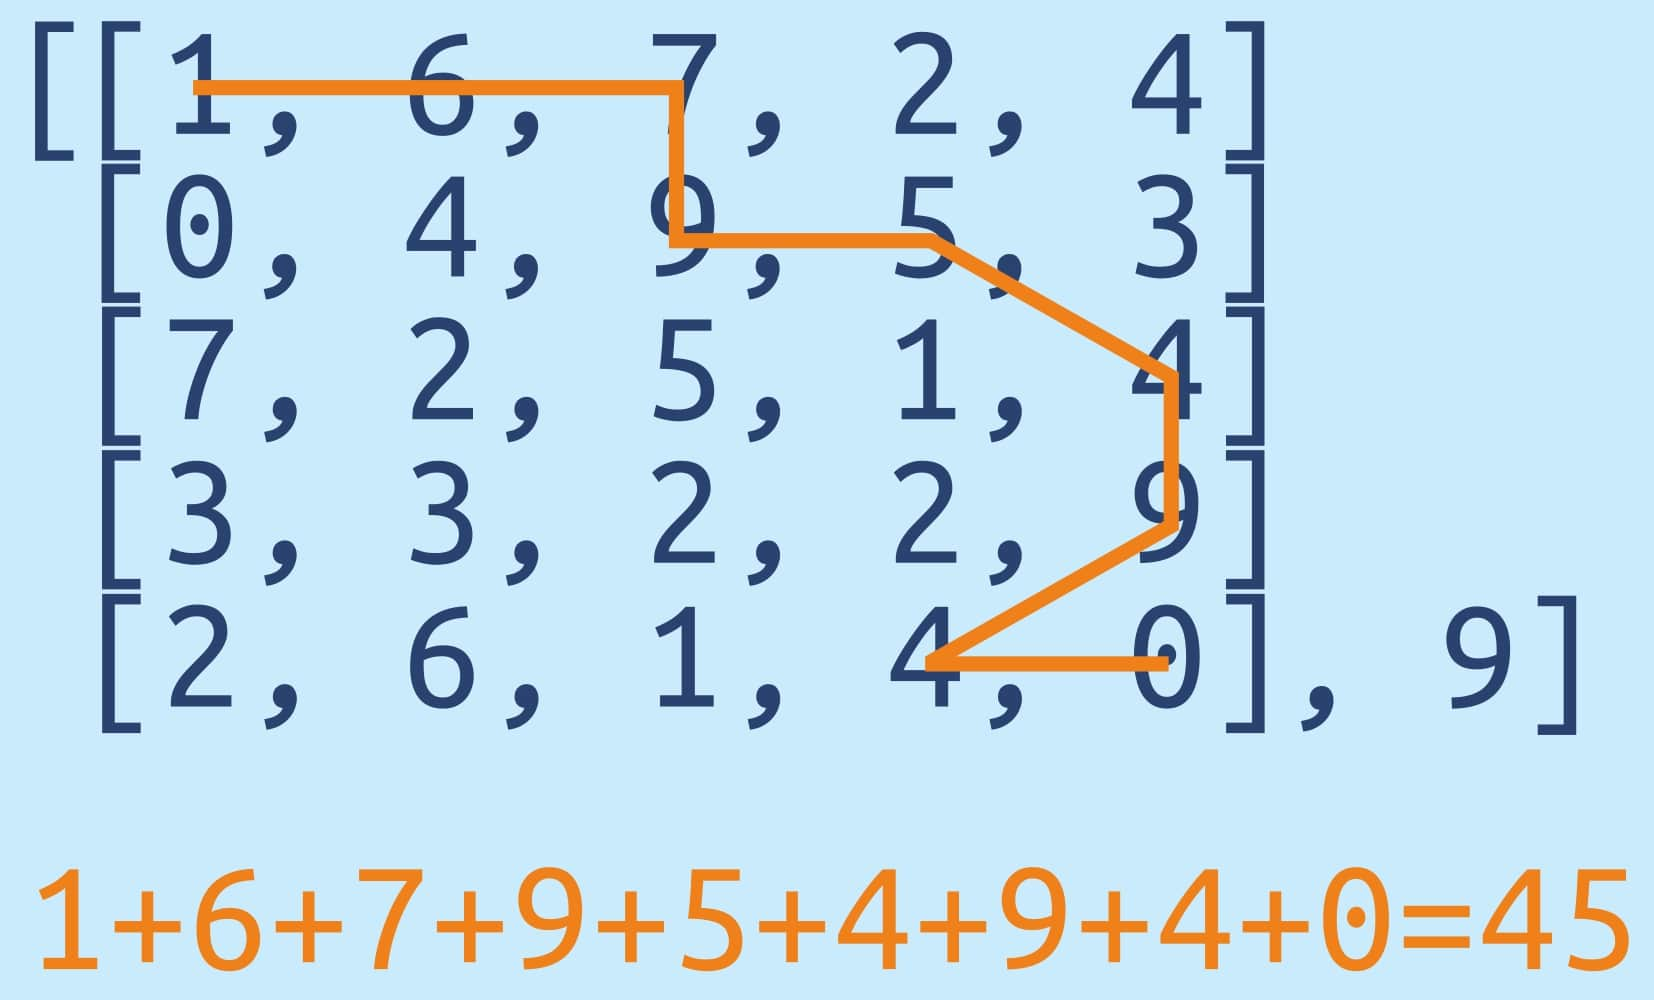
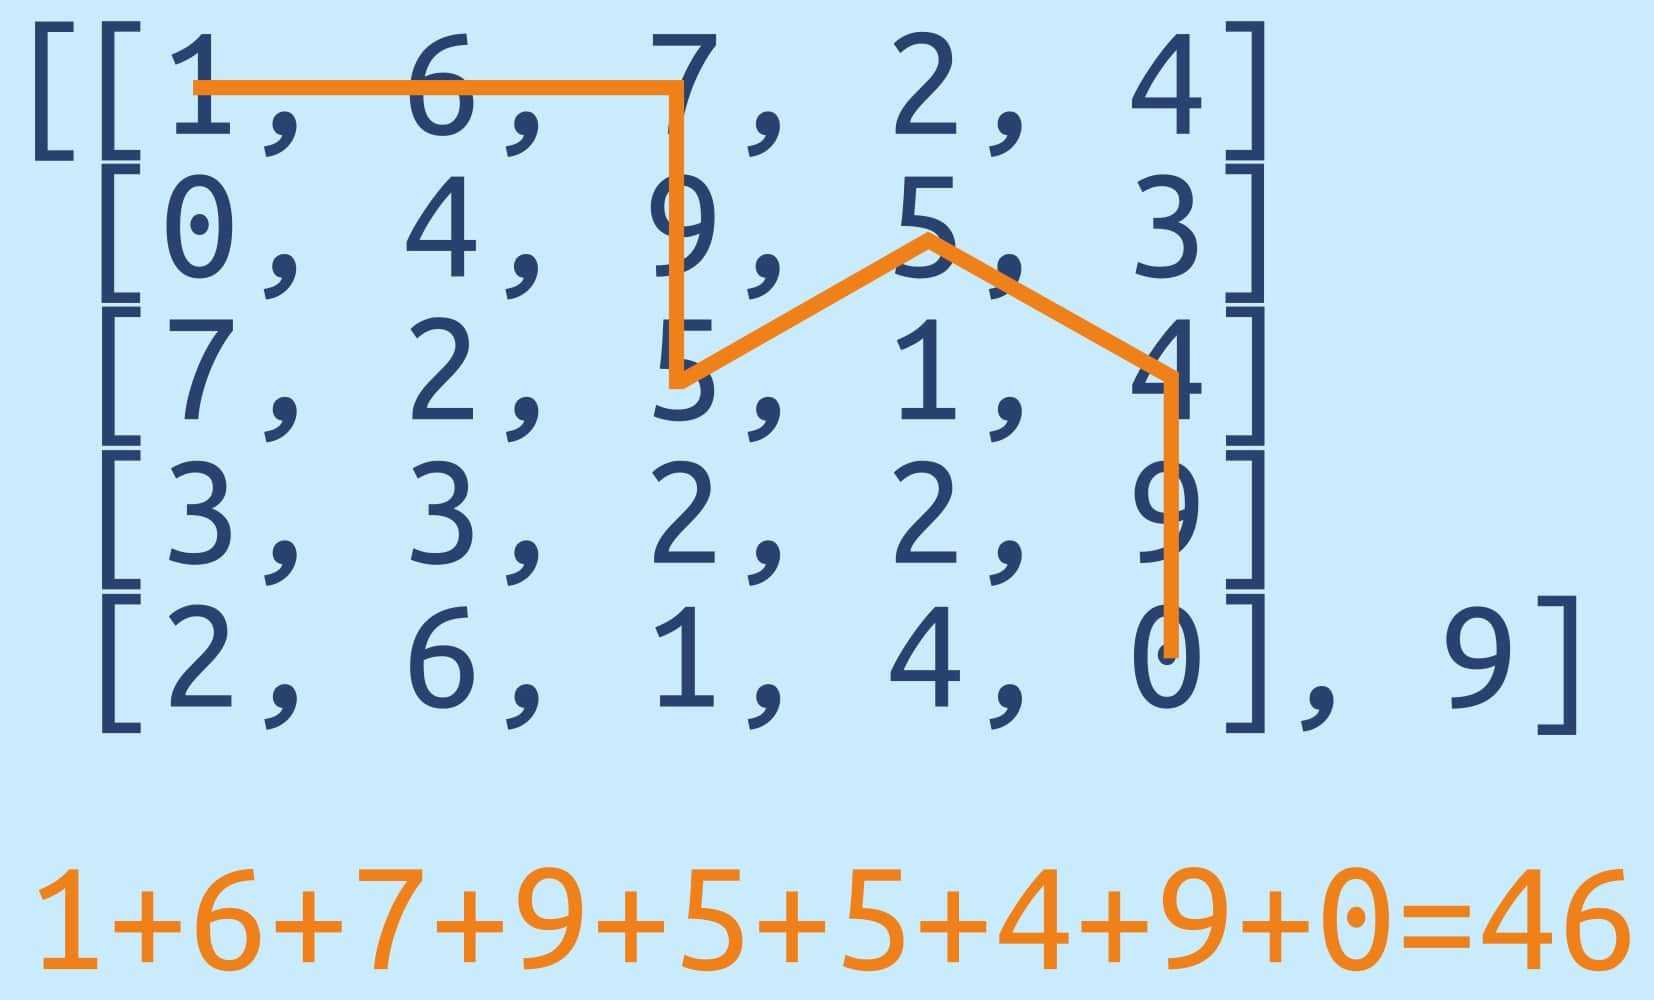
fix tests, change picture

diff --git a/info/task_description.html b/info/task_description.html
@@ -41,7 +41,7 @@ gKey([[1, 6, 7, 2, 4],
       [0, 4, 9, 5, 3],
       [7, 2, 5, 1, 4],
       [3, 3, 2, 2, 9],
-      [2, 6, 1, 4, 0]], 9) == 45
+      [2, 6, 1, 4, 0]], 9) == 46
 
 </pre>
 {% else %}
@@ -50,7 +50,7 @@ g_key([[1, 6, 7, 2, 4],
        [0, 4, 9, 5, 3],
        [7, 2, 5, 1, 4],
        [3, 3, 2, 2, 9],
-       [2, 6, 1, 4, 0]], 9) == 45
+       [2, 6, 1, 4, 0]], 9) == 46
 </pre>
 {% endif %}
 </div>

diff --git a/translations/ru/info/task_description.html b/translations/ru/info/task_description.html
@@ -41,7 +41,7 @@ gKey([[1, 6, 7, 2, 4],
       [0, 4, 9, 5, 3],
       [7, 2, 5, 1, 4],
       [3, 3, 2, 2, 9],
-      [2, 6, 1, 4, 0]], 9) == 45
+      [2, 6, 1, 4, 0]], 9) == 46
 
 </pre>
 {% else %}
@@ -50,7 +50,7 @@ g_key([[1, 6, 7, 2, 4],
        [0, 4, 9, 5, 3],
        [7, 2, 5, 1, 4],
        [3, 3, 2, 2, 9],
-       [2, 6, 1, 4, 0]], 9) == 45
+       [2, 6, 1, 4, 0]], 9) == 46
 </pre>
 {% endif %}
 </div>

diff --git a/verification/tests.py b/verification/tests.py
@@ -16,7 +16,7 @@ TESTS = {
                       [7, 2, 5, 1, 4],
                       [3, 3, 2, 2, 9],
                       [2, 6, 1, 4, 0]], 9],
-            "answer": 45
+            "answer": 46
         },
         {
             "input":[[[5, 6, 4, 3, 4],
